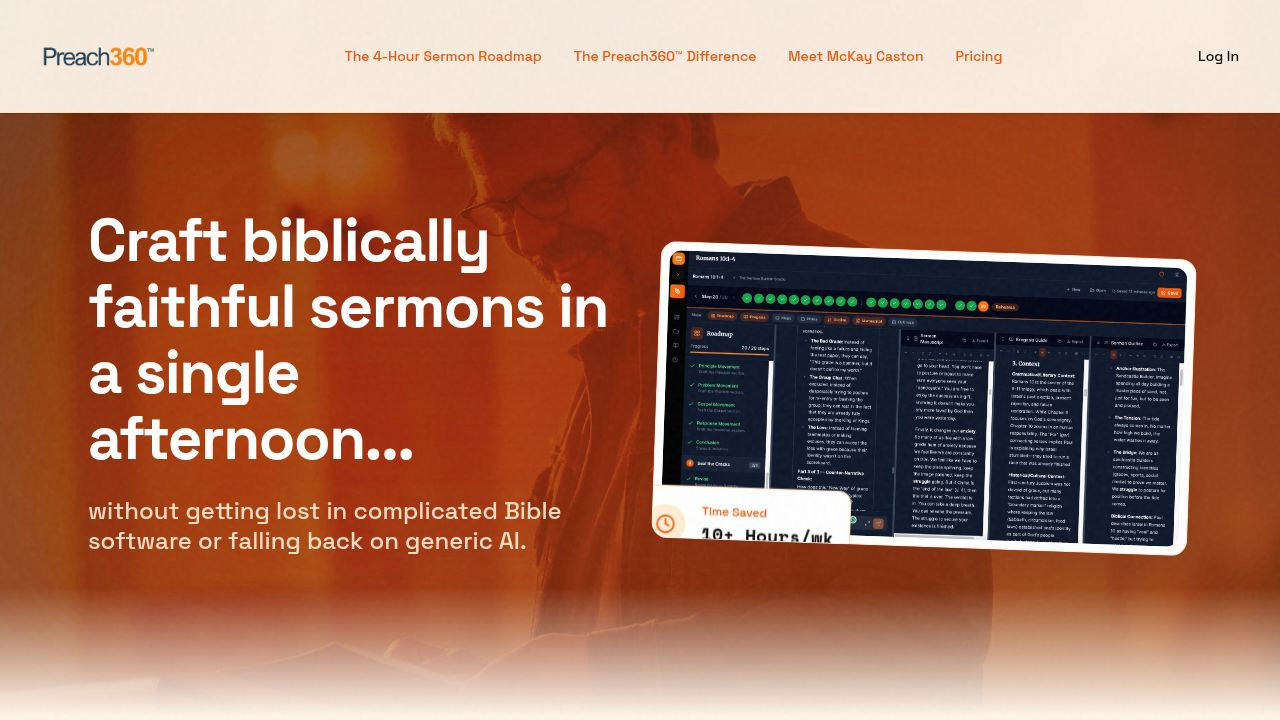
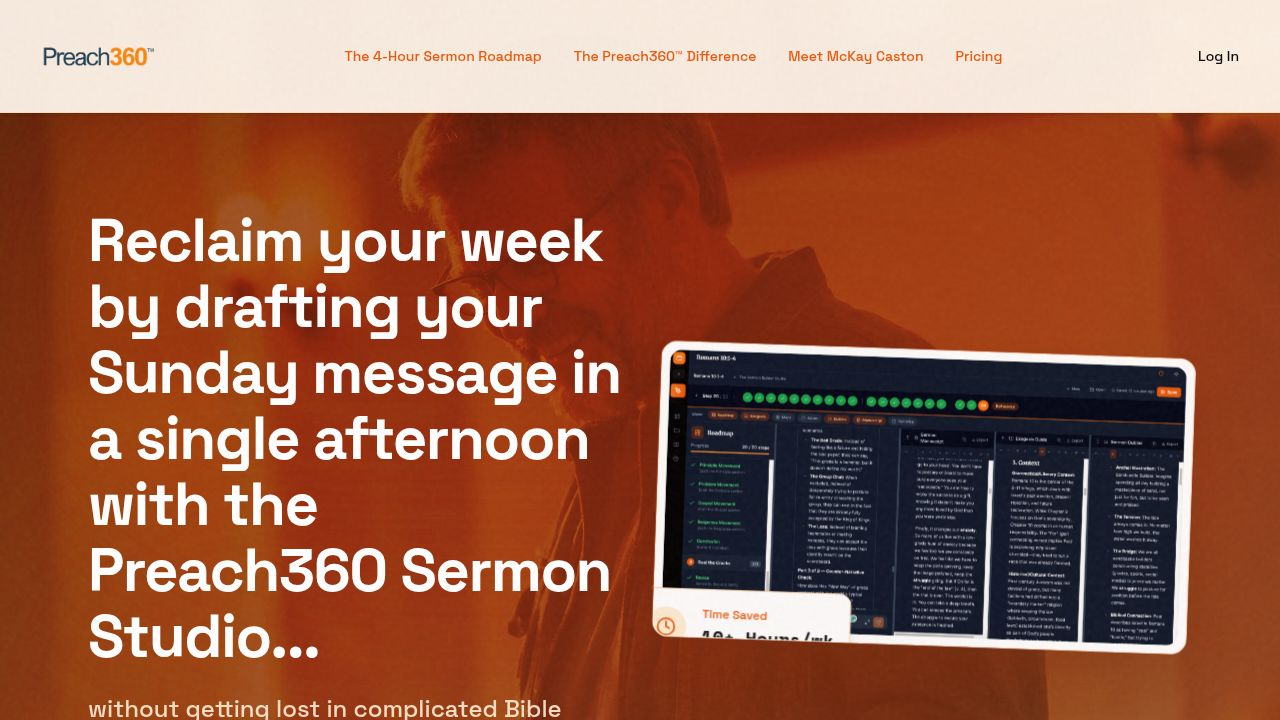
Update headline to highlight time-saving sermon creation
Change the main headline on the home page to emphasize reclaiming time with the Preach360 Sermon Studio.

Replit-Commit-Author: Agent
Replit-Commit-Session-Id: b40ebc65-716c-42ff-8a29-f355e8ec55d6
Replit-Commit-Checkpoint-Type: full_checkpoint
Replit-Commit-Event-Id: fe2febc6-8a98-46a7-be5f-63be77c00ad5
Replit-Commit-Screenshot-Url: https://storage.googleapis.com/screenshot-production-us-central1/52b2e9a9-1aca-4f31-b761-2a0e85fbc987/b40ebc65-716c-42ff-8a29-f355e8ec55d6/LUDRvja
Replit-Helium-Checkpoint-Created: true

diff --git a/client/src/pages/home.tsx b/client/src/pages/home.tsx
@@ -45,7 +45,7 @@ export default function Home() {
               className="max-w-2xl"
             >
               <h1 className="text-3xl md:text-5xl lg:text-6xl font-bold tracking-tight text-white mb-6 leading-[1.1]">
-                Craft biblically faithful sermons in a single afternoon...
+                Reclaim your week by drafting your Sunday message in a single afternoon with the Preach360 Sermon Studio...
               </h1>
               
               <div className="mb-8 max-w-xl">
